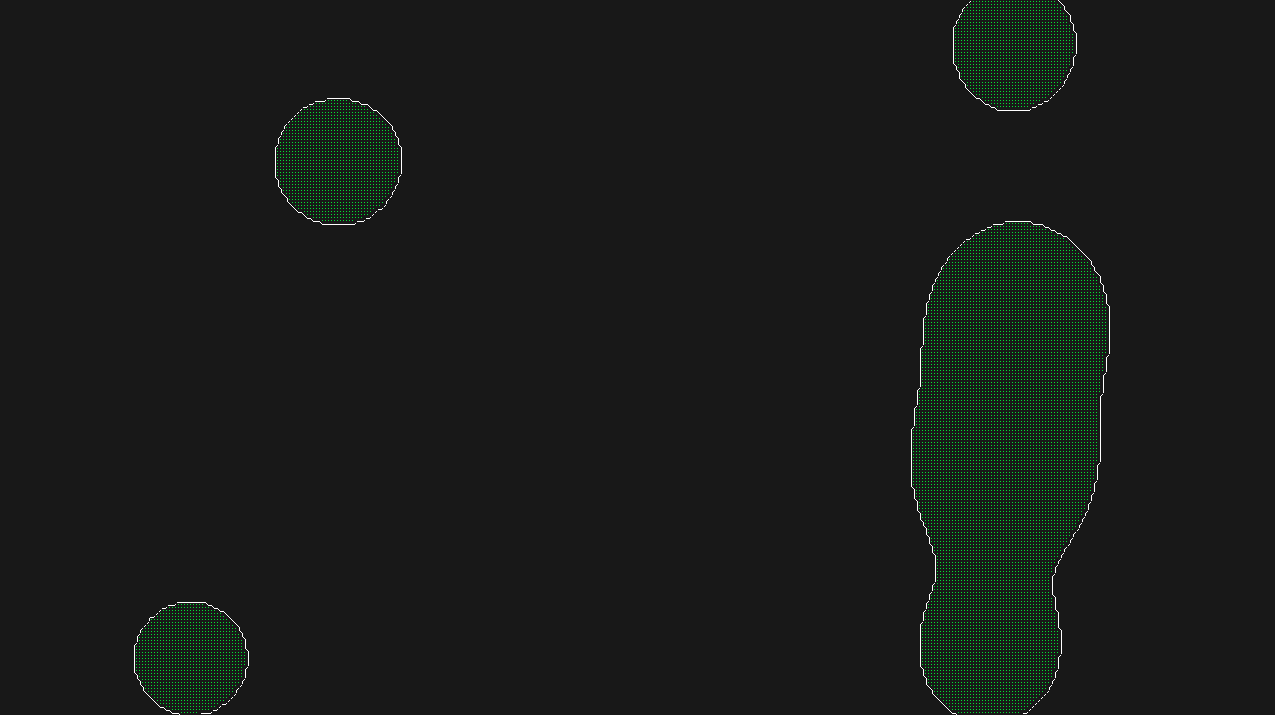
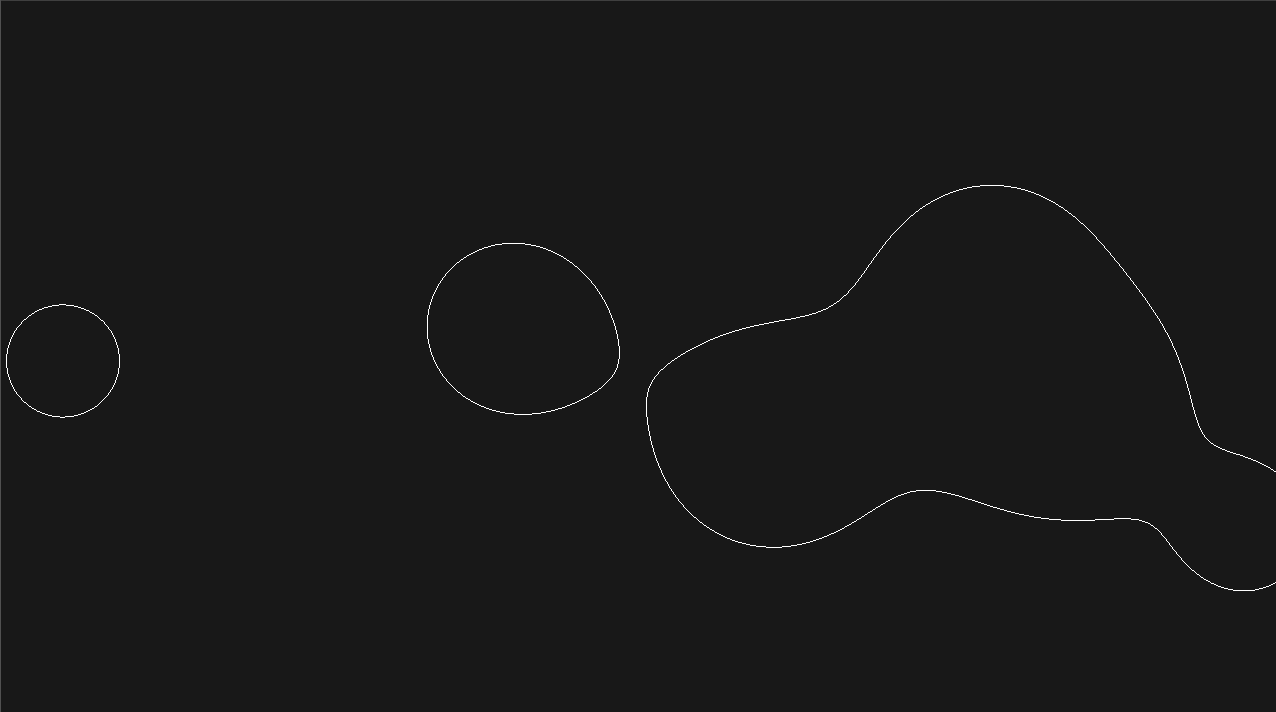
Added lerp, looks :pepeOk:

diff --git a/code/main.cpp b/code/main.cpp
@@ -9,6 +9,10 @@ inline Color hex_to_color(unsigned int color) {
 	return Color{(color >> 24) & 0xff, (color >> 16) & 0xff, (color >> 8) & 0xff, color & 0xff};
 }
 
+float lerp_pixel(int a, float a_val, int b, float b_val) {
+	return (a + (b - a) * (1 - a_val) / (b_val - a_val));
+}
+
 int main()
 {
 	InitWindow(SCREEN_WIDTH, SCREEN_HEIGHT, "MEATBALLS!!!");
@@ -84,86 +88,86 @@ int main()
 							//DrawCircleLines(x, y, cell_size, RED);
 						}break;
 						case 1: {
-							Vector2 l1 = {p1.x, p1.y + cell_size * 0.5f};
-							Vector2 l2 = {p1.x + cell_size * 0.5f, p1.y};
+							Vector2 l1 = {p1.x, lerp_pixel(p1.y, CELL(j, i), p4.y, CELL(j, i + 1))};
+							Vector2 l2 = {lerp_pixel(p1.x, CELL(j, i), p2.x, CELL(j + 1, i)), p1.y};
 							DrawLineV(l1, l2, WHITE);
 						} break;
 						case 2: { 
-							Vector2 l1 = {p2.x - cell_size * 0.5f, p2.y};
-							Vector2 l2 = {p2.x, p2.y + cell_size * 0.5f};
+							Vector2 l1 = {lerp_pixel(p1.x, CELL(j, i), p2.x, CELL(j + 1, i)), p2.y};
+							Vector2 l2 = {p2.x, lerp_pixel(p2.y, CELL(j + 1, i), p3.y, CELL(j+1, i+1))};
 							DrawLineV(l1, l2, WHITE);
 						} break;
 						case 3: { 
-							Vector2 l1 = {p1.x, p1.y +  cell_size * 0.5f};
-							Vector2 l2 = {p2.x, p2.y + cell_size * 0.5f};
+							Vector2 l1 = {p1.x, lerp_pixel(p1.y, CELL(j, i), p4.y, CELL(j, i + 1))};
+							Vector2 l2 = {p2.x, lerp_pixel(p2.y, CELL(j + 1, i), p3.y, CELL(j + 1, i + 1))};
 							DrawLineV(l1, l2, WHITE);
 						} break;
 						case 4: { 
-							Vector2 l1 = {p3.x, p3.y - cell_size * 0.5f};
-							Vector2 l2 = {p3.x - cell_size * 0.5f, p3.y};
+							Vector2 l1 = {lerp_pixel(p4.x, CELL(j, i + 1), p3.x, CELL(j + 1, i + 1)), p4.y};
+							Vector2 l2 = {p2.x, lerp_pixel(p2.y, CELL(j + 1, i), p3.y, CELL(j + 1, i + 1))};
+							
 							DrawLineV(l1, l2, WHITE);
 						} break;
 						case 5: { 
-							Vector2 l1 = {p2.x - cell_size * 0.5f, p2.y};
-							Vector2 l2 = {p2.x, p2.y + cell_size * 0.5f};
+							Vector2 l1 = {lerp_pixel(p1.x, CELL(j, i), p2.x, CELL(j + 1, i)), p2.y};
+							Vector2 l2 = {p2.x, lerp_pixel(p2.y, CELL(j + 1, i), p3.y, CELL(j+1, i+1))};
 							
-							Vector2 l3 = {p4.x, p4.y - cell_size * 0.5f};
-							Vector2 l4 = {p4.x + cell_size * 0.5f, p4.y};
+							Vector2 l3 = {p4.x, lerp_pixel(p1.y, CELL(j, i), p4.y, CELL(j, i + 1))};
+							Vector2 l4 = {lerp_pixel(p4.x, CELL(j, i + 1), p3.x, CELL(j + 1, i + 1)), p4.y};
 							
 							DrawLineV(l1, l2, WHITE);
 							DrawLineV(l3, l4, WHITE);
 						} break;
 						case 6: { 
-							Vector2 l1 = {p2.x - cell_size * 0.5f, p2.y};
-							Vector2 l2 = {p3.x - cell_size * 0.5f, p3.y};
+							Vector2 l1 = {lerp_pixel(p1.x, CELL(j, i), p2.x, CELL(j + 1, i)), p2.y};
+							Vector2 l2 = {lerp_pixel(p4.x, CELL(j, i + 1), p3.x, CELL(j + 1, i + 1)), p3.y};
 							DrawLineV(l1, l2, WHITE);
 						} break;
 						case 7: { 
-							Vector2 l1 = {p4.x, p4.y - cell_size * 0.5f};
-							Vector2 l2 = {p4.x + cell_size * 0.5f, p4.y};
+							Vector2 l1 = {p4.x, lerp_pixel(p1.y, CELL(j, i), p4.y, CELL(j, i + 1))};
+							Vector2 l2 = {lerp_pixel(p4.x, CELL(j, i + 1), p3.x, CELL(j + 1, i + 1)), p4.y};
 							
 							DrawLineV(l1, l2, WHITE);
 						} break;
 						case 8: { 
-							Vector2 l1 = {p4.x, p4.y - cell_size * 0.5f};
-							Vector2 l2 = {p4.x + cell_size * 0.5f, p4.y};
+							Vector2 l1 = {p4.x, lerp_pixel(p1.y, CELL(j, i), p4.y, CELL(j, i + 1))};
+							Vector2 l2 = {lerp_pixel(p4.x, CELL(j, i + 1), p3.x, CELL(j + 1, i + 1)), p4.y};
 							
 							DrawLineV(l1, l2, WHITE);
 						} break;
 						case 9: { 
-							Vector2 l1 = {p1.x + cell_size * 0.5f, p1.y};
-							Vector2 l2 = {p4.x + cell_size * 0.5f, p4.y};
+							Vector2 l1 = {lerp_pixel(p1.x, CELL(j, i), p2.x, CELL(j + 1, i)), p1.y};
+							Vector2 l2 = {lerp_pixel(p4.x, CELL(j, i + 1), p3.x, CELL(j + 1, i + 1)), p4.y};
 							DrawLineV(l1, l2, WHITE);
 						} break;
 						case 10: { 
-							Vector2 l1 = {p1.x, p1.y + cell_size * 0.5f};
-							Vector2 l2 = {p1.x + cell_size * 0.5f, p1.y};
-							Vector2 l3 = {p3.x, p3.y - cell_size * 0.5f};
-							Vector2 l4 = {p3.x - cell_size * 0.5f, p3.y};
+							Vector2 l1 = {p1.x, lerp_pixel(p1.y, CELL(j, i), p4.y, CELL(j, i + 1))};
+							Vector2 l2 = {lerp_pixel(p1.x, CELL(j, i), p2.x, CELL(j + 1, i)), p1.y};
+							Vector2 l3 = {lerp_pixel(p4.x, CELL(j, i + 1), p3.x, CELL(j + 1, i + 1)), p4.y};
+							Vector2 l4 = {p2.x, lerp_pixel(p2.y, CELL(j + 1, i), p3.y, CELL(j + 1, i + 1))};
 							
 							DrawLineV(l1, l2, WHITE);
 							DrawLineV(l3, l4, WHITE);
 						} break;
 						case 11: { 
-							Vector2 l1 = {p3.x, p3.y - cell_size * 0.5f};
-							Vector2 l2 = {p3.x - cell_size * 0.5f, p3.y};
+							Vector2 l1 = {lerp_pixel(p4.x, CELL(j, i + 1), p3.x, CELL(j + 1, i + 1)), p4.y};
+							Vector2 l2 = {p2.x, lerp_pixel(p2.y, CELL(j + 1, i), p3.y, CELL(j + 1, i + 1))};
+							
 							DrawLineV(l1, l2, WHITE);
 						} break;
 						case 12: { 
-							Vector2 l1 = {p4.x, p4.y -  cell_size * 0.5f};
-							Vector2 l2 = {p3.x, p3.y - cell_size * 0.5f};
+							Vector2 l1 = {p4.x, lerp_pixel(p1.y, CELL(j, i), p4.y, CELL(j, i + 1))};
+							Vector2 l2 = {p3.x, lerp_pixel(p2.y, CELL(j + 1, i), p3.y, CELL(j + 1, i + 1))};
 							DrawLineV(l1, l2, WHITE);
 						} break;
 						case 13: { 
-							Vector2 l1 = {p2.x - cell_size * 0.5f, p2.y};
-							Vector2 l2 = {p2.x, p2.y + cell_size * 0.5f};
-							
+							Vector2 l1 = {lerp_pixel(p1.x, CELL(j, i), p2.x, CELL(j + 1, i)), p2.y};
+							Vector2 l2 = {p2.x, lerp_pixel(p2.y, CELL(j + 1, i), p3.y, CELL(j+1, i+1))};
 							DrawLineV(l1, l2, WHITE);
-							
 						} break;
 						case 14: { 
-							Vector2 l1 = {p1.x, p1.y + cell_size * 0.5f};
-							Vector2 l2 = {p1.x + cell_size * 0.5f, p1.y};
+							Vector2 l1 = {p1.x, lerp_pixel(p1.y, CELL(j, i), p4.y, CELL(j, i + 1))};
+							Vector2 l2 = {lerp_pixel(p1.x, CELL(j, i), p2.x, CELL(j + 1, i)), p1.y};
 							DrawLineV(l1, l2, WHITE);
 						} break;
 						
